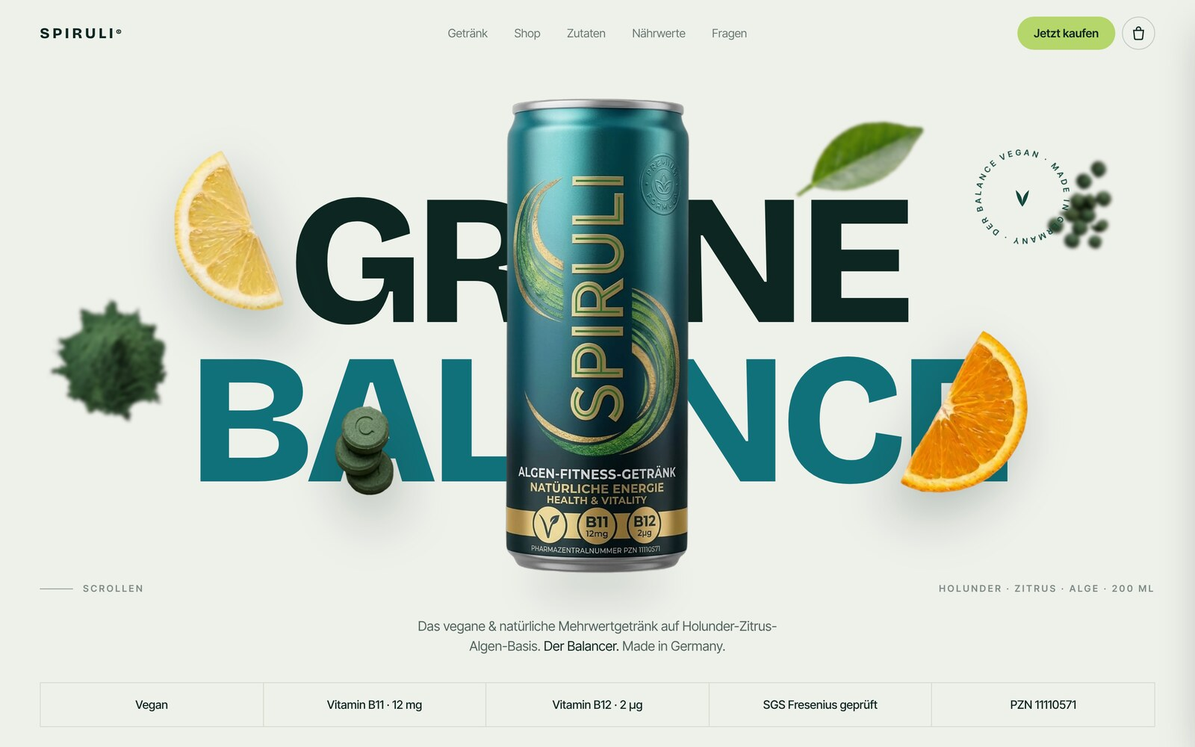
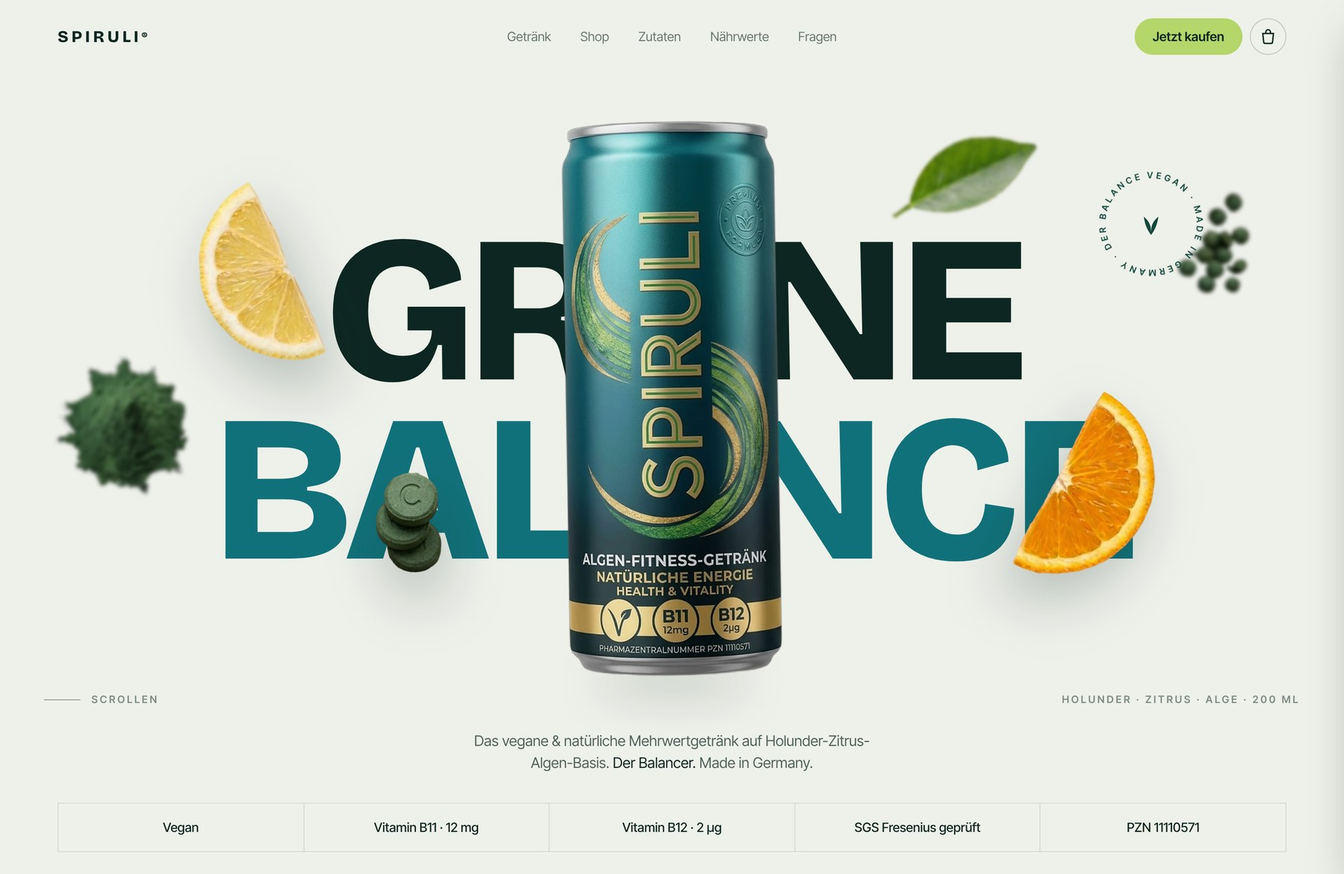
MacBook zeigt SPIRULI in echter Laptop-Größe, Bewertungs-Handy wie Googles Bewertungsseite
Claude-Session: https://claude.ai/code/session_01BmgW4GNGez9WR17nNYcC6h

diff --git a/design/v20-template.html b/design/v20-template.html
@@ -208,6 +208,7 @@ h3 { font-size: clamp(19px, 1.5vw, 22px); line-height: 1.25; letter-spacing: -.0
 .w-stage { perspective: 1800px; }
 .w-mac { position: absolute; left: 2%; right: 14%; top: 48%; translate: 0 -50%; }
 .w-mac .mac__lid { transform-origin: 50% 100%; transform: rotateX(calc((1 - var(--a, 1)) * 88deg)); }
+.scroller { display: block; width: 100%; height: auto; }
 .w-mac .mac__screen .scroller { transform: translateY(calc(var(--b, 1) * -62%)); }
 .w-phone { position: absolute; right: 2%; bottom: 8%; width: 17%; z-index: 2; opacity: min(1, calc(var(--c, 1) * 3)); transform: translateX(calc((1 - var(--c, 1)) * 60%)) translateY(calc((1 - var(--c, 1)) * 12%)); }
 .w-toast { left: 4%; top: 4%; }
@@ -234,12 +235,35 @@ h3 { font-size: clamp(19px, 1.5vw, 22px); line-height: 1.25; letter-spacing: -.0
 .n-rings { position: absolute; inset: 0; pointer-events: none; }
 .n-rings i { position: absolute; inset: 0; border-radius: 50%; border: 3px solid var(--gold); opacity: 0; }
 .scene.s2 .n-rings i, .scene.s3 .n-rings i { animation: ring 1.2s var(--ease) forwards; } .scene.s2 .n-rings i:nth-child(2), .scene.s3 .n-rings i:nth-child(2) { animation-delay: .2s; } .scene.s2 .n-rings i:nth-child(3), .scene.s3 .n-rings i:nth-child(3) { animation-delay: .4s; }
-.n-phone { position: absolute; z-index: 3; left: 50%; top: calc(72% - var(--w) * 1.55); width: calc(var(--w) * .71); aspect-ratio: 9 / 19; margin-left: calc(var(--w) * -.355); padding: 6px; border-radius: 22% / 10%; background: linear-gradient(150deg, #48474c, #151517 55%, #2a2a2e); box-shadow: 0 40px 60px -28px rgba(0,0,0,.5), inset 0 0 0 1px rgba(255,255,255,.2); opacity: min(1, calc(var(--b, 1) * 4)); transform: translateY(calc((1 - var(--b, 1)) * -70%)) rotate(-10deg); }
-.n-phone > div { height: 100%; display: grid; align-content: center; justify-items: center; gap: 8px; border-radius: 18% / 8%; background: #fff; color: #202124; text-align: center; }
-.n-phone b { font: 700 clamp(22px, 2.6vw, 34px)/1 Arial, sans-serif; color: #4285f4; }
-.n-phone small { font-size: clamp(10px, .8vw, 12px); font-weight: 600; }
-.n-stars { display: flex; gap: 2px; } .n-stars svg { width: clamp(12px, 1.1vw, 16px); height: clamp(12px, 1.1vw, 16px); fill: #e3e6ea; transition: fill .3s; }
-.scene.s3 .n-stars svg { fill: #fbbc05; } .scene.s3 .n-stars svg:nth-child(2) { transition-delay: .1s; } .scene.s3 .n-stars svg:nth-child(3) { transition-delay: .2s; } .scene.s3 .n-stars svg:nth-child(4) { transition-delay: .3s; } .scene.s3 .n-stars svg:nth-child(5) { transition-delay: .4s; }
+.n-phone { position: absolute; z-index: 3; left: 50%; top: calc(72% - var(--w) * 1.55); width: calc(var(--w) * .71); aspect-ratio: 9 / 19.5; margin-left: calc(var(--w) * -.355); padding: calc(var(--w) * .018); border-radius: 17% / 7.9%; background: linear-gradient(150deg, #48474c, #151517 55%, #2a2a2e); box-shadow: 0 40px 60px -28px rgba(0,0,0,.5), inset 0 0 0 1px rgba(255,255,255,.2); opacity: min(1, calc(var(--b, 1) * 4)); transform: translateY(calc((1 - var(--b, 1)) * -70%)) rotate(-10deg); }
+/* phone screen: Google's "write a review" sheet, sized in container units so it scales with the phone */
+.gr { position: relative; height: 100%; display: flex; flex-direction: column; overflow: hidden; border-radius: 15% / 7%; background: #fff; color: #1f1f1f; container-type: inline-size; font-family: "Google Sans", Roboto, "Inter", Arial, sans-serif; text-align: left; }
+.gr-bar { flex: none; display: flex; align-items: center; justify-content: space-between; height: 12cqw; padding: 2cqw 7cqw 0 9cqw; font-size: 4.4cqw; font-weight: 600; }
+.gr-bar i { width: 26cqw; height: 6.4cqw; border-radius: 99px; background: #0b0b0c; }
+.gr-bar u { width: 9cqw; height: 4cqw; border-radius: 1.2cqw; background: #fbbc05; text-decoration: none; }
+.gr-head { display: flex; align-items: center; justify-content: space-between; gap: 3cqw; padding: 5cqw 4cqw 0 5cqw; border-top: 1px solid #eee; }
+.gr-head b { font-size: 6cqw; font-weight: 500; letter-spacing: -.01em; white-space: nowrap; overflow: hidden; text-overflow: ellipsis; }
+.gr-head i { flex: none; display: grid; place-items: center; width: 8.6cqw; height: 8.6cqw; border-radius: 50%; background: #f1f3f4; font: 400 5.4cqw/1 Arial, sans-serif; font-style: normal; color: #1f1f1f; }
+.gr-user { display: grid; grid-template-columns: 8.6cqw 1fr; align-items: center; gap: 3.4cqw; padding: 5.4cqw 5cqw 0 4cqw; }
+.gr-av { display: grid; place-items: center; width: 8.6cqw; height: 8.6cqw; border-radius: 50%; background: #7e57c2; color: #fff; font-size: 4.6cqw; }
+.gr-user b { display: block; font-size: 4.4cqw; font-weight: 500; }
+.gr-user small { display: block; margin-top: .4cqw; font-size: 3.1cqw; color: #444746; white-space: nowrap; }
+.n-stars { display: flex; justify-content: space-between; padding: 5.6cqw 9cqw 0; }
+.n-stars svg { width: 7.4cqw; height: 7.4cqw; fill: #fff; stroke: #444746; stroke-width: 1.3; transition: fill .3s, stroke .3s; }
+.scene.s3 .n-stars svg { fill: #fbbc05; stroke: #fbbc05; } .scene.s3 .n-stars svg:nth-child(2) { transition-delay: .1s; } .scene.s3 .n-stars svg:nth-child(3) { transition-delay: .2s; } .scene.s3 .n-stars svg:nth-child(4) { transition-delay: .3s; } .scene.s3 .n-stars svg:nth-child(5) { transition-delay: .4s; }
+.gr-word { height: 9cqw; padding-top: 3.2cqw; text-align: center; font-size: 4cqw; color: #1f1f1f; opacity: 0; transition: opacity .4s .5s; }
+.scene.s3 .gr-word { opacity: 1; }
+.gr-sub { display: grid; gap: 3.6cqw; padding: 3cqw 4cqw 0 4.4cqw; }
+.gr-sub p { display: flex; align-items: center; justify-content: space-between; font-size: 3.5cqw; }
+.gr-sub span { display: flex; gap: 2.4cqw; }
+.gr-sub svg { width: 5cqw; height: 5cqw; fill: none; stroke: #444746; stroke-width: 1.3; }
+.gr-text { margin: 4.6cqw 4cqw 0; height: 15cqw; padding: 2.6cqw 3.6cqw; border: 1px solid #c4c7c5; border-radius: 2.6cqw; font-size: 3.5cqw; color: #444746; }
+.gr-photo { display: flex; align-items: center; justify-content: center; gap: 2cqw; margin: 4cqw 4cqw 0; height: 9.6cqw; border-radius: 99px; background: #d3f4fd; color: #0b5c6e; font-size: 3.7cqw; font-weight: 500; }
+.gr-photo svg { width: 4.4cqw; height: 4.4cqw; fill: none; stroke: currentColor; stroke-width: 2; }
+.gr-ask { margin: 4cqw 4cqw 0; padding: 4cqw 4.6cqw; border-radius: 4cqw; background: #eef3f3; font-size: 3.7cqw; }
+.gr-ask div { display: flex; flex-wrap: wrap; gap: 2cqw; margin-top: 3cqw; }
+.gr-ask em { padding: 1.8cqw 3cqw; border-radius: 1.8cqw; background: #fff; font-style: normal; font-size: 3.4cqw; }
+.gr-post { margin: auto 4cqw 6cqw; padding-top: 0; display: grid; place-items: center; height: 10cqw; border-radius: 99px; background: #0b7a87; color: #fff; font-size: 3.8cqw; font-weight: 500; box-shadow: 0 -4cqw 0 4cqw #fff; }
 .n-toast { right: 2%; top: 14%; } .n-toast svg { background: #fbbc05; }
 
 /* without scroll animation (reduced motion, no GSAP): every scene shows its final picture */
@@ -506,7 +530,7 @@ details[open] summary i { background: #1d1d1f; } details[open] summary i::before
   .r-stage::after { background: linear-gradient(180deg, rgba(251,251,253,.95), rgba(251,251,253,.8) 52%, rgba(251,251,253,.05)); }
   .r-toast { right: auto; left: 20px; top: auto; bottom: 22%; }
   .n-stage { --w: min(42vw, 24vh); } .n-floor { top: 68%; }
-  .n-toast { right: auto; left: 0; top: auto; bottom: 4%; }
+  .n-toast { right: 0; left: auto; top: auto; bottom: 1%; }
   .w-toast { top: auto; bottom: 2%; }
   .calcwrap { grid-template-columns: minmax(0, 1fr); }
   .lineup { aspect-ratio: 16 / 11; } .lu-mac { width: 84%; margin-left: -42%; } .lu-phone { right: 0; width: 22%; } .lu-disc { left: 0; width: 30%; }
@@ -575,7 +599,7 @@ details[open] summary i { background: #1d1d1f; } details[open] summary i::before
     </div>
     <div class="hero__stage">
     <div class="lineup" id="lineup" aria-hidden="true">
-      <div class="lu lu-mac"><div class="mac"><div class="mac__lid"><div class="mac__screen"><img src="/media/ref-spiruli-desk-top.jpg" alt=""></div></div><div class="mac__base"></div></div></div>
+      <div class="lu lu-mac"><div class="mac"><div class="mac__lid"><div class="mac__screen"><img src="/media/ref-spiruli-desk-top.jpg?v=2" alt=""></div></div><div class="mac__base"></div></div></div>
       <div class="lu lu-phone"><div class="iphone"><div class="iphone__screen"><video id="heroVid" poster="/media/tour-md-2.jpg" muted loop playsinline autoplay preload="auto"><source src="/media/roomtour-villa-1280.mp4" type="video/mp4"></video></div></div></div>
       <div class="lu lu-disc"><div class="lu-tilt"><div><span class="disc"><svg viewBox="0 0 200 200" aria-hidden="true"><use href="#disc" width="200" height="200"/></svg></span></div></div></div>
     </div>
@@ -592,7 +616,7 @@ details[open] summary i { background: #1d1d1f; } details[open] summary i::before
         <li><a href="#platten" data-peek="2"><span class="ix__name">NFC-Platten</span><span class="ix__what">Google-Bewertungen mit einem Antippen, ohne App.</span><span class="ix__price">15 €</span></a></li>
       </ol>
     </div>
-    <div class="peek" id="peek" aria-hidden="true"><img src="/media/ref-spiruli-desk-top.jpg" alt="" loading="lazy"><img src="/media/tour-md-2.jpg" alt="" loading="lazy"><img src="/media/nfc-platten.webp" alt="" loading="lazy"></div>
+    <div class="peek" id="peek" aria-hidden="true"><img src="/media/ref-spiruli-desk-top.jpg?v=2" alt="" loading="lazy"><img src="/media/tour-md-2.jpg" alt="" loading="lazy"><img src="/media/nfc-platten.webp" alt="" loading="lazy"></div>
   </section>
 
   <section class="sec picker" id="passend" aria-labelledby="h-pick">
@@ -615,7 +639,7 @@ details[open] summary i { background: #1d1d1f; } details[open] summary i::before
           <p class="scene__fact">Basis-Paket mit 3 Seiten. Im Bild: unsere Referenz SPIRULI (Premium-Paket).</p>
         </div>
         <div class="scene__stage w-stage" aria-hidden="true">
-          <div class="w-mac"><div class="mac"><div class="mac__lid"><div class="mac__screen"><img class="scroller" src="/media/ref-spiruli-desk.webp" alt="" width="1600" height="3000" loading="lazy"></div></div><div class="mac__base"></div></div></div>
+          <div class="w-mac"><div class="mac"><div class="mac__lid"><div class="mac__screen"><img class="scroller" src="/media/ref-spiruli-desk.webp?v=2" alt="" width="1600" height="3121" loading="lazy"></div></div><div class="mac__base"></div></div></div>
           <div class="w-phone"><div class="iphone"><div class="iphone__screen"><img class="scroller" src="/media/ref-spiruli-mob.webp" alt="" width="780" height="5064" loading="lazy"></div></div></div>
           <span class="toast w-toast"><svg><use href="#tick"/></svg>Online: ihr-betrieb.de</span>
         </div>
@@ -669,7 +693,7 @@ details[open] summary i { background: #1d1d1f; } details[open] summary i::before
         </div>
         <div class="scene__stage n-stage" aria-hidden="true">
           <div class="n-floor"><span class="n-rings"><i></i><i></i><i></i></span><span class="disc" id="disc"><svg viewBox="0 0 200 200" aria-hidden="true"><use href="#disc" width="200" height="200"/></svg></span></div>
-          <div class="n-phone"><div><b>G</b><small>Bewertung schreiben</small><span class="n-stars"><svg><use href="#star"/></svg><svg><use href="#star"/></svg><svg><use href="#star"/></svg><svg><use href="#star"/></svg><svg><use href="#star"/></svg></span></div></div>
+          <div class="n-phone"><div class="gr"><div class="gr-bar">9:41<i></i><u></u></div><div class="gr-head"><b>Ihr Restaurant</b><i>×</i></div><div class="gr-user"><span class="gr-av">G</span><div><b>Ihr Gast</b><small>Beitrag wird Google-weit veröffentlicht</small></div></div><div class="n-stars"><svg><use href="#star"/></svg><svg><use href="#star"/></svg><svg><use href="#star"/></svg><svg><use href="#star"/></svg><svg><use href="#star"/></svg></div><p class="gr-word">Hervorragend</p><div class="gr-sub"><p>Essen<span><svg><use href="#star"/></svg><svg><use href="#star"/></svg><svg><use href="#star"/></svg><svg><use href="#star"/></svg><svg><use href="#star"/></svg></span></p><p>Service<span><svg><use href="#star"/></svg><svg><use href="#star"/></svg><svg><use href="#star"/></svg><svg><use href="#star"/></svg><svg><use href="#star"/></svg></span></p><p>Ambiente<span><svg><use href="#star"/></svg><svg><use href="#star"/></svg><svg><use href="#star"/></svg><svg><use href="#star"/></svg><svg><use href="#star"/></svg></span></p></div><div class="gr-text">Anderen von deinen Erfahrungen erzählen</div><div class="gr-photo"><svg viewBox="0 0 24 24"><rect x="3" y="6" width="18" height="14" rx="2"/><circle cx="12" cy="13" r="3.5"/><path d="M8 6l1.5-2h5L16 6"/></svg>Fotos &amp; Videos hinzufügen</div><div class="gr-ask">Was hast du bestellt?<div><em>Frühstück</em><em>Brunch</em><em>Mittagessen</em><em>Abendessen</em></div></div><div class="gr-post">Posten</div></div></div>
           <span class="toast n-toast"><svg><use href="#star"/></svg>+1 Google-Bewertung</span>
         </div>
       </div>

diff --git a/public/site/index.html b/public/site/index.html
@@ -222,6 +222,7 @@ h3 { font-size: clamp(19px, 1.5vw, 22px); line-height: 1.25; letter-spacing: -.0
 .w-stage { perspective: 1800px; }
 .w-mac { position: absolute; left: 2%; right: 14%; top: 48%; translate: 0 -50%; }
 .w-mac .mac__lid { transform-origin: 50% 100%; transform: rotateX(calc((1 - var(--a, 1)) * 88deg)); }
+.scroller { display: block; width: 100%; height: auto; }
 .w-mac .mac__screen .scroller { transform: translateY(calc(var(--b, 1) * -62%)); }
 .w-phone { position: absolute; right: 2%; bottom: 8%; width: 17%; z-index: 2; opacity: min(1, calc(var(--c, 1) * 3)); transform: translateX(calc((1 - var(--c, 1)) * 60%)) translateY(calc((1 - var(--c, 1)) * 12%)); }
 .w-toast { left: 4%; top: 4%; }
@@ -248,12 +249,35 @@ h3 { font-size: clamp(19px, 1.5vw, 22px); line-height: 1.25; letter-spacing: -.0
 .n-rings { position: absolute; inset: 0; pointer-events: none; }
 .n-rings i { position: absolute; inset: 0; border-radius: 50%; border: 3px solid var(--gold); opacity: 0; }
 .scene.s2 .n-rings i, .scene.s3 .n-rings i { animation: ring 1.2s var(--ease) forwards; } .scene.s2 .n-rings i:nth-child(2), .scene.s3 .n-rings i:nth-child(2) { animation-delay: .2s; } .scene.s2 .n-rings i:nth-child(3), .scene.s3 .n-rings i:nth-child(3) { animation-delay: .4s; }
-.n-phone { position: absolute; z-index: 3; left: 50%; top: calc(72% - var(--w) * 1.55); width: calc(var(--w) * .71); aspect-ratio: 9 / 19; margin-left: calc(var(--w) * -.355); padding: 6px; border-radius: 22% / 10%; background: linear-gradient(150deg, #48474c, #151517 55%, #2a2a2e); box-shadow: 0 40px 60px -28px rgba(0,0,0,.5), inset 0 0 0 1px rgba(255,255,255,.2); opacity: min(1, calc(var(--b, 1) * 4)); transform: translateY(calc((1 - var(--b, 1)) * -70%)) rotate(-10deg); }
-.n-phone > div { height: 100%; display: grid; align-content: center; justify-items: center; gap: 8px; border-radius: 18% / 8%; background: #fff; color: #202124; text-align: center; }
-.n-phone b { font: 700 clamp(22px, 2.6vw, 34px)/1 Arial, sans-serif; color: #4285f4; }
-.n-phone small { font-size: clamp(10px, .8vw, 12px); font-weight: 600; }
-.n-stars { display: flex; gap: 2px; } .n-stars svg { width: clamp(12px, 1.1vw, 16px); height: clamp(12px, 1.1vw, 16px); fill: #e3e6ea; transition: fill .3s; }
-.scene.s3 .n-stars svg { fill: #fbbc05; } .scene.s3 .n-stars svg:nth-child(2) { transition-delay: .1s; } .scene.s3 .n-stars svg:nth-child(3) { transition-delay: .2s; } .scene.s3 .n-stars svg:nth-child(4) { transition-delay: .3s; } .scene.s3 .n-stars svg:nth-child(5) { transition-delay: .4s; }
+.n-phone { position: absolute; z-index: 3; left: 50%; top: calc(72% - var(--w) * 1.55); width: calc(var(--w) * .71); aspect-ratio: 9 / 19.5; margin-left: calc(var(--w) * -.355); padding: calc(var(--w) * .018); border-radius: 17% / 7.9%; background: linear-gradient(150deg, #48474c, #151517 55%, #2a2a2e); box-shadow: 0 40px 60px -28px rgba(0,0,0,.5), inset 0 0 0 1px rgba(255,255,255,.2); opacity: min(1, calc(var(--b, 1) * 4)); transform: translateY(calc((1 - var(--b, 1)) * -70%)) rotate(-10deg); }
+/* phone screen: Google's "write a review" sheet, sized in container units so it scales with the phone */
+.gr { position: relative; height: 100%; display: flex; flex-direction: column; overflow: hidden; border-radius: 15% / 7%; background: #fff; color: #1f1f1f; container-type: inline-size; font-family: "Google Sans", Roboto, "Inter", Arial, sans-serif; text-align: left; }
+.gr-bar { flex: none; display: flex; align-items: center; justify-content: space-between; height: 12cqw; padding: 2cqw 7cqw 0 9cqw; font-size: 4.4cqw; font-weight: 600; }
+.gr-bar i { width: 26cqw; height: 6.4cqw; border-radius: 99px; background: #0b0b0c; }
+.gr-bar u { width: 9cqw; height: 4cqw; border-radius: 1.2cqw; background: #fbbc05; text-decoration: none; }
+.gr-head { display: flex; align-items: center; justify-content: space-between; gap: 3cqw; padding: 5cqw 4cqw 0 5cqw; border-top: 1px solid #eee; }
+.gr-head b { font-size: 6cqw; font-weight: 500; letter-spacing: -.01em; white-space: nowrap; overflow: hidden; text-overflow: ellipsis; }
+.gr-head i { flex: none; display: grid; place-items: center; width: 8.6cqw; height: 8.6cqw; border-radius: 50%; background: #f1f3f4; font: 400 5.4cqw/1 Arial, sans-serif; font-style: normal; color: #1f1f1f; }
+.gr-user { display: grid; grid-template-columns: 8.6cqw 1fr; align-items: center; gap: 3.4cqw; padding: 5.4cqw 5cqw 0 4cqw; }
+.gr-av { display: grid; place-items: center; width: 8.6cqw; height: 8.6cqw; border-radius: 50%; background: #7e57c2; color: #fff; font-size: 4.6cqw; }
+.gr-user b { display: block; font-size: 4.4cqw; font-weight: 500; }
+.gr-user small { display: block; margin-top: .4cqw; font-size: 3.1cqw; color: #444746; white-space: nowrap; }
+.n-stars { display: flex; justify-content: space-between; padding: 5.6cqw 9cqw 0; }
+.n-stars svg { width: 7.4cqw; height: 7.4cqw; fill: #fff; stroke: #444746; stroke-width: 1.3; transition: fill .3s, stroke .3s; }
+.scene.s3 .n-stars svg { fill: #fbbc05; stroke: #fbbc05; } .scene.s3 .n-stars svg:nth-child(2) { transition-delay: .1s; } .scene.s3 .n-stars svg:nth-child(3) { transition-delay: .2s; } .scene.s3 .n-stars svg:nth-child(4) { transition-delay: .3s; } .scene.s3 .n-stars svg:nth-child(5) { transition-delay: .4s; }
+.gr-word { height: 9cqw; padding-top: 3.2cqw; text-align: center; font-size: 4cqw; color: #1f1f1f; opacity: 0; transition: opacity .4s .5s; }
+.scene.s3 .gr-word { opacity: 1; }
+.gr-sub { display: grid; gap: 3.6cqw; padding: 3cqw 4cqw 0 4.4cqw; }
+.gr-sub p { display: flex; align-items: center; justify-content: space-between; font-size: 3.5cqw; }
+.gr-sub span { display: flex; gap: 2.4cqw; }
+.gr-sub svg { width: 5cqw; height: 5cqw; fill: none; stroke: #444746; stroke-width: 1.3; }
+.gr-text { margin: 4.6cqw 4cqw 0; height: 15cqw; padding: 2.6cqw 3.6cqw; border: 1px solid #c4c7c5; border-radius: 2.6cqw; font-size: 3.5cqw; color: #444746; }
+.gr-photo { display: flex; align-items: center; justify-content: center; gap: 2cqw; margin: 4cqw 4cqw 0; height: 9.6cqw; border-radius: 99px; background: #d3f4fd; color: #0b5c6e; font-size: 3.7cqw; font-weight: 500; }
+.gr-photo svg { width: 4.4cqw; height: 4.4cqw; fill: none; stroke: currentColor; stroke-width: 2; }
+.gr-ask { margin: 4cqw 4cqw 0; padding: 4cqw 4.6cqw; border-radius: 4cqw; background: #eef3f3; font-size: 3.7cqw; }
+.gr-ask div { display: flex; flex-wrap: wrap; gap: 2cqw; margin-top: 3cqw; }
+.gr-ask em { padding: 1.8cqw 3cqw; border-radius: 1.8cqw; background: #fff; font-style: normal; font-size: 3.4cqw; }
+.gr-post { margin: auto 4cqw 6cqw; padding-top: 0; display: grid; place-items: center; height: 10cqw; border-radius: 99px; background: #0b7a87; color: #fff; font-size: 3.8cqw; font-weight: 500; box-shadow: 0 -4cqw 0 4cqw #fff; }
 .n-toast { right: 2%; top: 14%; } .n-toast svg { background: #fbbc05; }
 
 /* without scroll animation (reduced motion, no GSAP): every scene shows its final picture */
@@ -520,7 +544,7 @@ details[open] summary i { background: #1d1d1f; } details[open] summary i::before
   .r-stage::after { background: linear-gradient(180deg, rgba(251,251,253,.95), rgba(251,251,253,.8) 52%, rgba(251,251,253,.05)); }
   .r-toast { right: auto; left: 20px; top: auto; bottom: 22%; }
   .n-stage { --w: min(42vw, 24vh); } .n-floor { top: 68%; }
-  .n-toast { right: auto; left: 0; top: auto; bottom: 4%; }
+  .n-toast { right: 0; left: auto; top: auto; bottom: 1%; }
   .w-toast { top: auto; bottom: 2%; }
   .calcwrap { grid-template-columns: minmax(0, 1fr); }
   .lineup { aspect-ratio: 16 / 11; } .lu-mac { width: 84%; margin-left: -42%; } .lu-phone { right: 0; width: 22%; } .lu-disc { left: 0; width: 30%; }
@@ -605,7 +629,7 @@ details[open] summary i { background: #1d1d1f; } details[open] summary i::before
     </div>
     <div class="hero__stage">
     <div class="lineup" id="lineup" aria-hidden="true">
-      <div class="lu lu-mac"><div class="mac"><div class="mac__lid"><div class="mac__screen"><img src="/media/ref-spiruli-desk-top.jpg" alt=""></div></div><div class="mac__base"></div></div></div>
+      <div class="lu lu-mac"><div class="mac"><div class="mac__lid"><div class="mac__screen"><img src="/media/ref-spiruli-desk-top.jpg?v=2" alt=""></div></div><div class="mac__base"></div></div></div>
       <div class="lu lu-phone"><div class="iphone"><div class="iphone__screen"><video id="heroVid" poster="/media/tour-md-2.jpg" muted loop playsinline autoplay preload="auto"><source src="/media/roomtour-villa-1280.mp4" type="video/mp4"></video></div></div></div>
       <div class="lu lu-disc"><div class="lu-tilt"><div><span class="disc"><svg viewBox="0 0 200 200" aria-hidden="true"><use href="#disc" width="200" height="200"/></svg></span></div></div></div>
     </div>
@@ -622,7 +646,7 @@ details[open] summary i { background: #1d1d1f; } details[open] summary i::before
         <li><a href="#platten" data-peek="2"><span class="ix__name">NFC-Platten</span><span class="ix__what">Google-Bewertungen mit einem Antippen, ohne App.</span><span class="ix__price">15 €</span></a></li>
       </ol>
     </div>
-    <div class="peek" id="peek" aria-hidden="true"><img src="/media/ref-spiruli-desk-top.jpg" alt="" loading="lazy"><img src="/media/tour-md-2.jpg" alt="" loading="lazy"><img src="/media/nfc-platten.webp" alt="" loading="lazy"></div>
+    <div class="peek" id="peek" aria-hidden="true"><img src="/media/ref-spiruli-desk-top.jpg?v=2" alt="" loading="lazy"><img src="/media/tour-md-2.jpg" alt="" loading="lazy"><img src="/media/nfc-platten.webp" alt="" loading="lazy"></div>
   </section>
 
   <section class="sec picker" id="passend" aria-labelledby="h-pick">
@@ -645,7 +669,7 @@ details[open] summary i { background: #1d1d1f; } details[open] summary i::before
           <p class="scene__fact">Basis-Paket mit 3 Seiten. Im Bild: unsere Referenz SPIRULI (Premium-Paket).</p>
         </div>
         <div class="scene__stage w-stage" aria-hidden="true">
-          <div class="w-mac"><div class="mac"><div class="mac__lid"><div class="mac__screen"><img class="scroller" src="/media/ref-spiruli-desk.webp" alt="" width="1600" height="3000" loading="lazy"></div></div><div class="mac__base"></div></div></div>
+          <div class="w-mac"><div class="mac"><div class="mac__lid"><div class="mac__screen"><img class="scroller" src="/media/ref-spiruli-desk.webp?v=2" alt="" width="1600" height="3121" loading="lazy"></div></div><div class="mac__base"></div></div></div>
           <div class="w-phone"><div class="iphone"><div class="iphone__screen"><img class="scroller" src="/media/ref-spiruli-mob.webp" alt="" width="780" height="5064" loading="lazy"></div></div></div>
           <span class="toast w-toast"><svg><use href="#tick"/></svg>Online: ihr-betrieb.de</span>
         </div>
@@ -699,7 +723,7 @@ details[open] summary i { background: #1d1d1f; } details[open] summary i::before
         </div>
         <div class="scene__stage n-stage" aria-hidden="true">
           <div class="n-floor"><span class="n-rings"><i></i><i></i><i></i></span><span class="disc" id="disc"><svg viewBox="0 0 200 200" aria-hidden="true"><use href="#disc" width="200" height="200"/></svg></span></div>
-          <div class="n-phone"><div><b>G</b><small>Bewertung schreiben</small><span class="n-stars"><svg><use href="#star"/></svg><svg><use href="#star"/></svg><svg><use href="#star"/></svg><svg><use href="#star"/></svg><svg><use href="#star"/></svg></span></div></div>
+          <div class="n-phone"><div class="gr"><div class="gr-bar">9:41<i></i><u></u></div><div class="gr-head"><b>Ihr Restaurant</b><i>×</i></div><div class="gr-user"><span class="gr-av">G</span><div><b>Ihr Gast</b><small>Beitrag wird Google-weit veröffentlicht</small></div></div><div class="n-stars"><svg><use href="#star"/></svg><svg><use href="#star"/></svg><svg><use href="#star"/></svg><svg><use href="#star"/></svg><svg><use href="#star"/></svg></div><p class="gr-word">Hervorragend</p><div class="gr-sub"><p>Essen<span><svg><use href="#star"/></svg><svg><use href="#star"/></svg><svg><use href="#star"/></svg><svg><use href="#star"/></svg><svg><use href="#star"/></svg></span></p><p>Service<span><svg><use href="#star"/></svg><svg><use href="#star"/></svg><svg><use href="#star"/></svg><svg><use href="#star"/></svg><svg><use href="#star"/></svg></span></p><p>Ambiente<span><svg><use href="#star"/></svg><svg><use href="#star"/></svg><svg><use href="#star"/></svg><svg><use href="#star"/></svg><svg><use href="#star"/></svg></span></p></div><div class="gr-text">Anderen von deinen Erfahrungen erzählen</div><div class="gr-photo"><svg viewBox="0 0 24 24"><rect x="3" y="6" width="18" height="14" rx="2"/><circle cx="12" cy="13" r="3.5"/><path d="M8 6l1.5-2h5L16 6"/></svg>Fotos &amp; Videos hinzufügen</div><div class="gr-ask">Was hast du bestellt?<div><em>Frühstück</em><em>Brunch</em><em>Mittagessen</em><em>Abendessen</em></div></div><div class="gr-post">Posten</div></div></div>
           <span class="toast n-toast"><svg><use href="#star"/></svg>+1 Google-Bewertung</span>
         </div>
       </div>

diff --git a/CLAUDE.md b/CLAUDE.md
@@ -8,6 +8,8 @@ Gründer: Florian Dressler (+49 155 66456417) und Davy Stubenrauch (+49 176 5661
 - **Typo als Held**: Start-Überschrift bis 184 px (10,6 vw, Zeilenabstand .9), h2 bis 88 px, Szenen-h2 bis 68 px, Preise bis 84 px, Über-uns-Satz bis 64 px. Start-Bühne fast randlos (8–16 px Abstand).
 - **Neuer Leistungs-Index** `#angebot` direkt nach dem Start (Agentur-Stil): drei riesige Zeilen Websites / KI-Roomtours / NFC-Platten mit Kurztext + Preis; beim Überfahren werden die anderen Zeilen blass, ein Vorschaubild folgt dem Mauszeiger (`#peek`, nur Maus, nicht bei reduzierter Bewegung).
 - **Bewegtes Schriftband** `#bandx` vor dem Ablauf: zwei Zeilen (voll / Kontur) laufen beim Scrollen gegeneinander, Trenner = Logo-Zeichen.
+- **Proportionen (1.11.)**: SPIRULI neu aufgenommen in echter MacBook-Größe (1470 × 956, Retina) → `ref-spiruli-desk-top.jpg` (1800 px) und `ref-spiruli-desk.webp` (Start, Produkt, Zutaten); vorher war es mit 800 px Breite aufgenommen und wirkte riesig. `.scroller { height: auto }` behebt das gestreckte Handy-Bild im Website-Film.
+- **Bewertungs-Handy (1.11.)** nach Kunden-Foto wie Googles „Bewertung schreiben“: Name des Betriebs + ×, Avatar „Ihr Gast“, 5 große Sterne (füllen sich gelb), „Hervorragend“, Essen/Service/Ambiente, Textfeld, „Fotos & Videos hinzufügen“, „Was hast du bestellt?“, Knopf „Posten“ (Klasse `.gr`, Größen in `cqw`). Echte Namen bewusst durch „Ihr Restaurant“/„Ihr Gast“ ersetzt.
 - NFC-Film auf hellgrauem Grund (Abwechslung zu Website weiß / Roomtour warm).
 - Formulare: keine Karten mehr, Abschnitte als offene Zeilen (Titel links klebend, Felder rechts), Ablauf als Linie unter der Überschrift; Roomtour-Fotos als **Kacheln mit Mini-Grundriss**, der Kamera-Standort und Blickrichtung zeigt.
 
